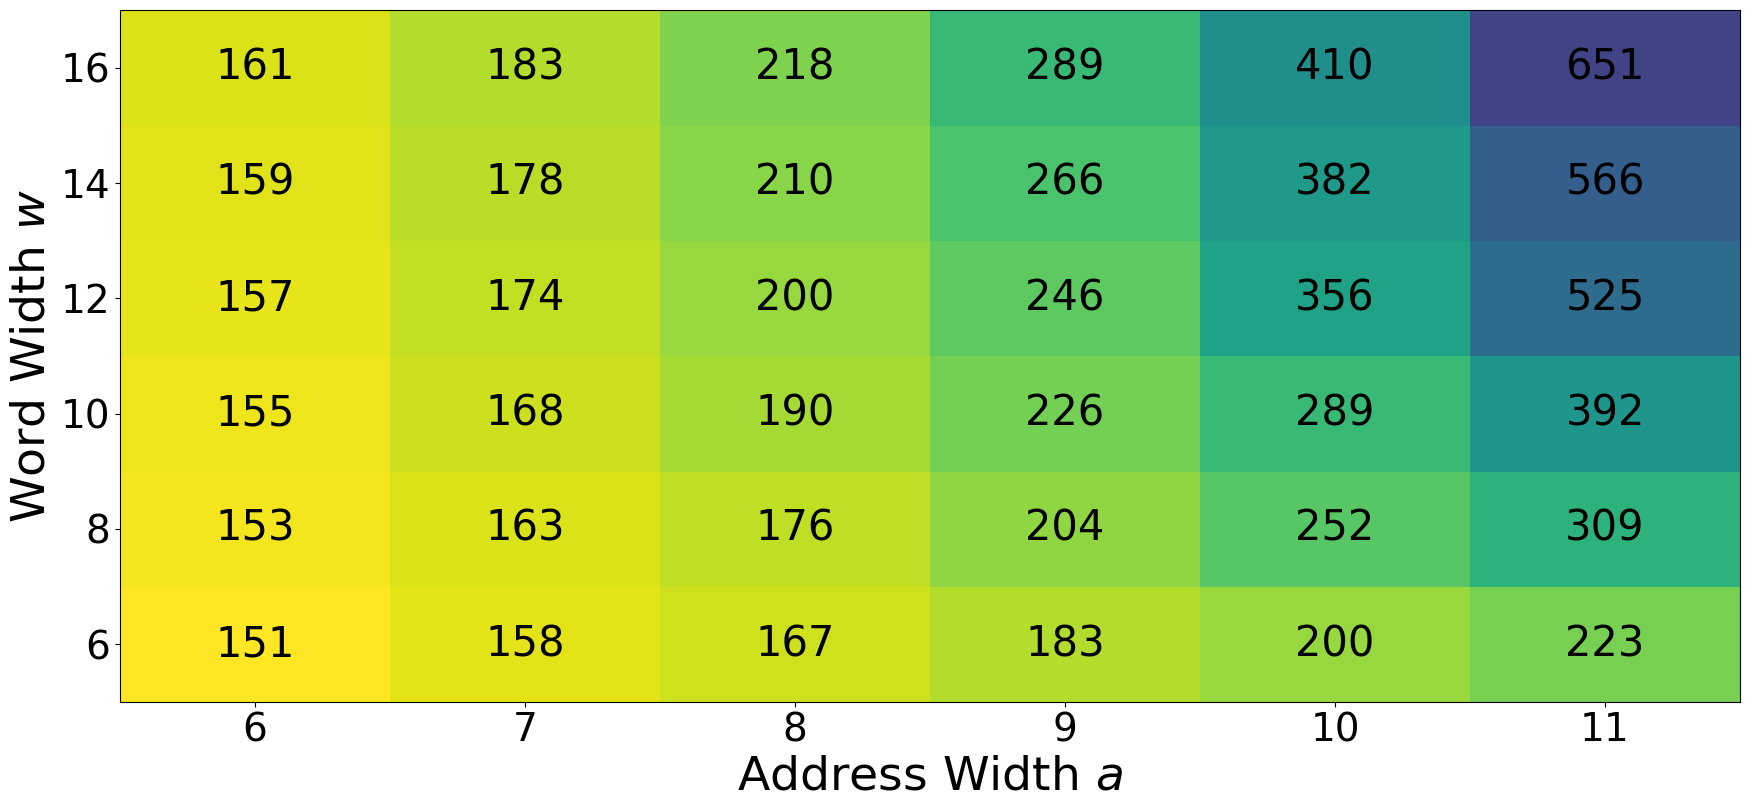
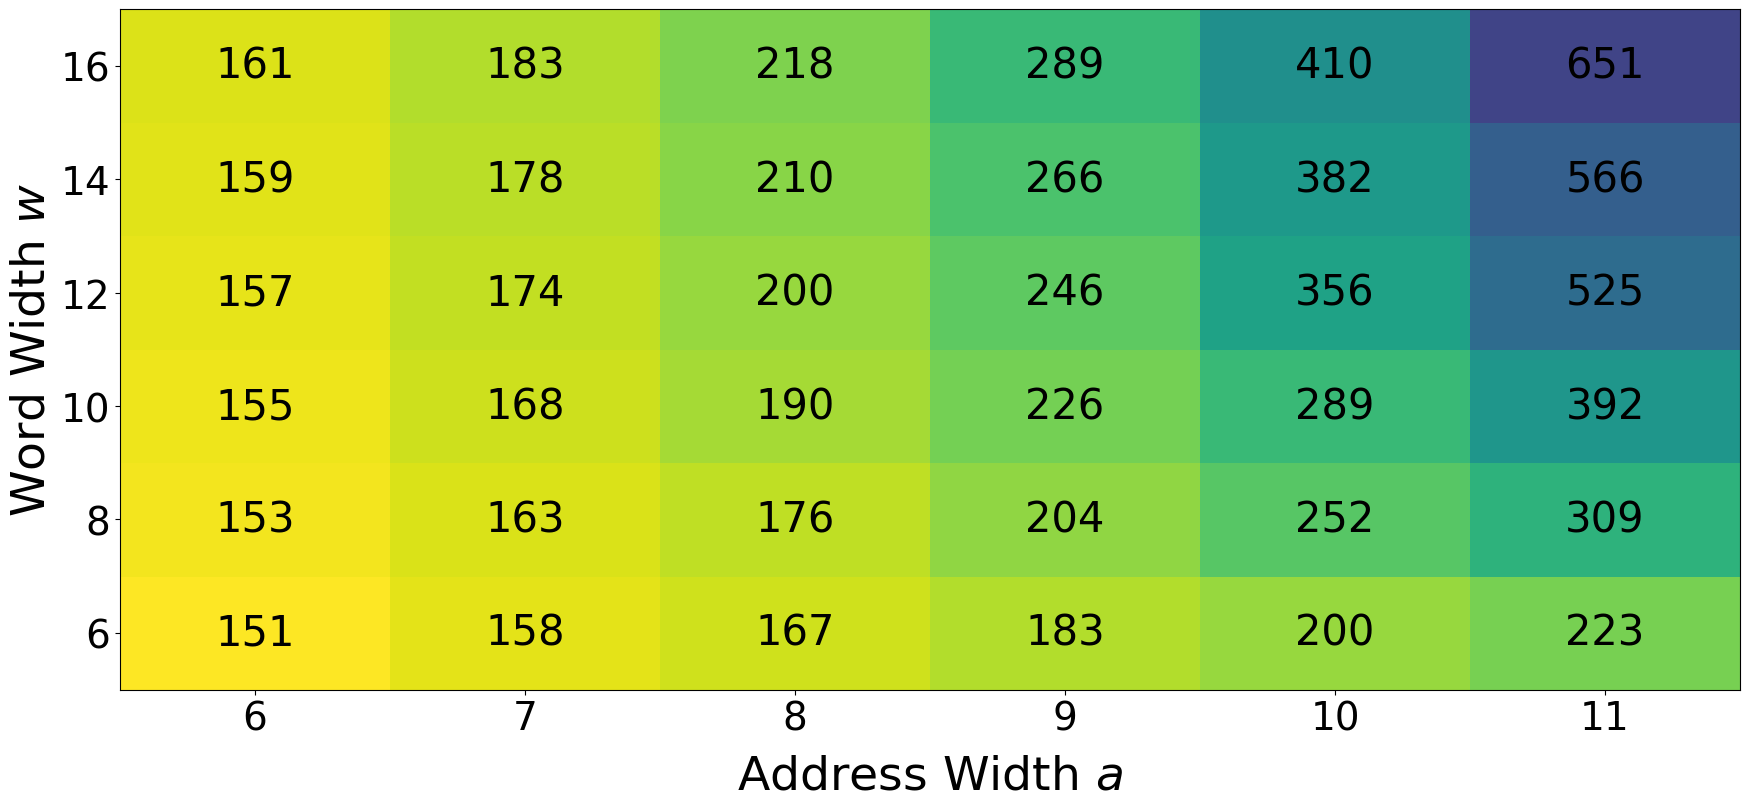
m

diff --git a/evaluation/exp/lookup/scripts/plot.py b/evaluation/exp/lookup/scripts/plot.py
@@ -82,7 +82,7 @@ def plot_heatmap(filepath, output_path=None, title=None, xlabel="x", ylabel="y",
 
 	ax.set_xticklabels([_tick(v) for v in x_vals], fontsize=fontsize_ticks)
 	ax.set_yticklabels([_tick(v) for v in y_vals], fontsize=fontsize_ticks)
-	ax.set_xlabel(xlabel, fontsize=fontsize_labels)
+	ax.set_xlabel(xlabel, fontsize=fontsize_labels, labelpad=12)
 	ax.set_ylabel(ylabel, fontsize=fontsize_labels)
 
 	if title:

diff --git a/evaluation/rec/lookup/scripts/plot.py b/evaluation/rec/lookup/scripts/plot.py
@@ -87,7 +87,7 @@ def plot_heatmap(filepath, output_path=None, title=None, xlabel="x", ylabel="y",
 
 	ax.set_xticklabels([_tick(v) for v in x_vals], fontsize=fontsize_ticks)
 	ax.set_yticklabels([_tick(v) for v in y_vals], fontsize=fontsize_ticks)
-	ax.set_xlabel(xlabel, fontsize=fontsize_labels)
+	ax.set_xlabel(xlabel, fontsize=fontsize_labels, labelpad=12)
 	ax.set_ylabel(ylabel, fontsize=fontsize_labels)
 
 	if title:

diff --git a/evaluation/rsqrt/lookup/scripts/plot.py b/evaluation/rsqrt/lookup/scripts/plot.py
@@ -82,7 +82,7 @@ def plot_heatmap(filepath, output_path=None, title=None, xlabel="x", ylabel="y",
 
 	ax.set_xticklabels([_tick(v) for v in x_vals], fontsize=fontsize_ticks)
 	ax.set_yticklabels([_tick(v) for v in y_vals], fontsize=fontsize_ticks)
-	ax.set_xlabel(xlabel, fontsize=fontsize_labels)
+	ax.set_xlabel(xlabel, fontsize=fontsize_labels, labelpad=12)
 	ax.set_ylabel(ylabel, fontsize=fontsize_labels)
 
 	if title:
